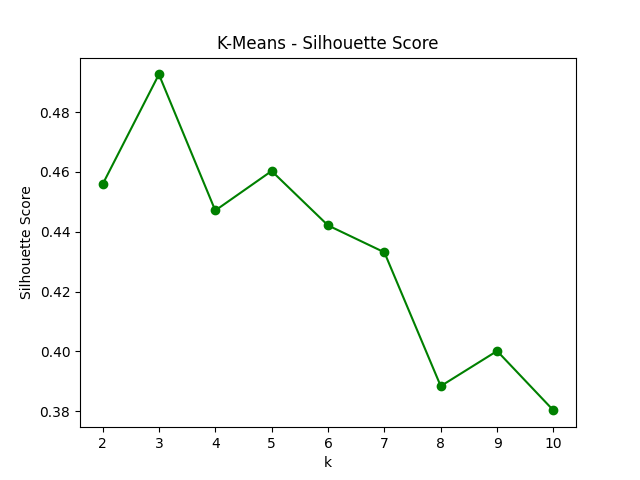
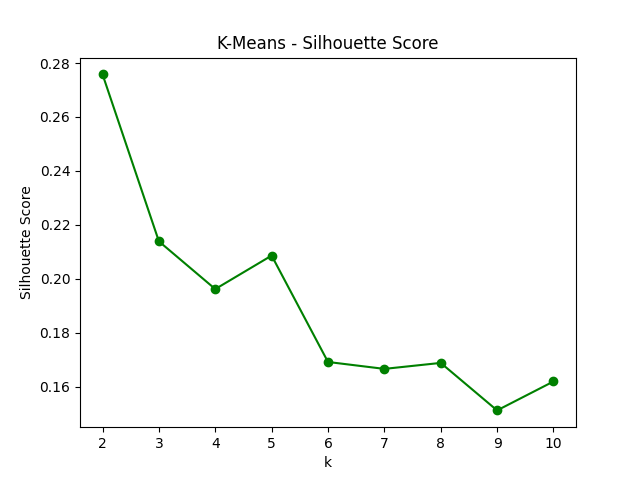
final changes to preprocessing, unsupervised analysis, svm, modelcomparison, utils

diff --git a/unsupervised_structural_analysis.py b/unsupervised_structural_analysis.py
@@ -5,18 +5,27 @@ import pandas as pd
 from sklearn.decomposition import PCA
 from sklearn.cluster import KMeans
 from sklearn.mixture import GaussianMixture
-from sklearn.metrics import silhouette_score
+from sklearn.metrics import silhouette_score, adjusted_rand_score
 
 from preprocessing import RANDOM_STATE, run as run_preprocessing
 
 def preprocess_special():
     # Import preprocessed data from the shared preprocessing pipeline.
     X_train, y_train, X_val, X_test, y_val, y_test, preprocessor = run_preprocessing()
+
+    # Fit the scaler/encoder on train only, then apply to all splits (no leakage).
+    X_train = preprocessor.fit_transform(X_train)
+    X_test = preprocessor.transform(X_test)
+
     return X_train, X_test, y_train, y_test
 
 def run():
 
     X_train, X_test, y_train, y_test = preprocess_special()
+
+    if hasattr(X_train, "toarray"):
+        X_train = X_train.toarray()
+        X_test = X_test.toarray()
 
     # Apply PCA and analyze explained variance:
 
@@ -37,7 +46,6 @@ def run():
     plt.title('PCA - Explained Variance')
     plt.legend()
     plt.savefig('phases/results/USA/pca_explained_variance.png')
-    plt.show()
 
     # refit with the chosen number of components(lab11)
     pca = PCA(n_components=n_components, random_state=RANDOM_STATE).fit(X_train)
@@ -56,7 +64,6 @@ def run():
     plt.title('PCA - First 2 components (train set)')
     plt.legend(title='Class')
     plt.savefig('phases/results/USA/pca_scatter.png')
-    plt.show()
 
     # K-Means: Elbow + Silhouette 
     # Inertia = how tightly are the points in each cluster packed together (sum of squared distances from each point to its cluster center)
@@ -79,7 +86,6 @@ def run():
     plt.ylabel('Inertia')
     plt.title('K-Means - Elbow Method')
     plt.savefig('phases/results/USA/kmeans_elbow.png')
-    plt.show()
 
     # Silhouette plot
     # how well each point fits in its assigned cluster compared to the nearest neighboring cluster
@@ -95,7 +101,6 @@ def run():
     plt.ylabel('Silhouette Score')
     plt.title('K-Means - Silhouette Score')
     plt.savefig('phases/results/USA/kmeans_silhouette.png')
-    plt.show()
 
     best_k_km = list(k_range)[silhouettes_km.index(max(silhouettes_km))]
     print(f"Best k for K-Means (silhouette): {best_k_km}")
@@ -117,8 +122,7 @@ def run():
     plt.xlabel('k')
     plt.ylabel('Negative Log-Likelihood')
     plt.title('GMM - Elbow Method')
-    plt.savefig('gmm_elbow.png')
-    plt.show()
+    plt.savefig('phases/results/USA/gmm_elbow.png')
 
     # Silhouette plot
     plt.figure()
@@ -127,7 +131,6 @@ def run():
     plt.ylabel('Silhouette Score')
     plt.title('GMM - Silhouette Score')
     plt.savefig('phases/results/USA/gmm_silhouette.png')
-    plt.show()
 
     best_k_gmm = list(k_range)[silhouettes_gmm.index(max(silhouettes_gmm))]
     print(f"Best k for GMM (silhouette): {best_k_gmm}")
@@ -177,7 +180,6 @@ def run():
     plt.suptitle('Cluster Assignments vs True Labels')
     plt.tight_layout()
     plt.savefig('phases/results/USA/cluster_vs_target.png')
-    plt.show()
 
     # Summary table
     results = pd.DataFrame({
@@ -186,7 +188,17 @@ def run():
         'Silhouette': [round(max(silhouettes_km), 4), round(max(silhouettes_gmm), 4)],
     })
     print(results)
+    
+    # The Adjusted Rand Index (ARI) measures how well the unsupervised clusters
+    # match the true default labels: 1.0 means a perfect match, 0.0 means the
+    # overlap is no better than random guessing.
+    print("ARI: 1.0=perfect match, 0.0=overlap like random guessing")
+    print("Cluster-vs-default agreement (ARI), K-Means:", adjusted_rand_score(y_train, km_labels))
+    print("Cluster-vs-default agreement (ARI), GMM:", adjusted_rand_score(y_train, gmm_labels))
+
     return results
+
+
 
 
 if __name__ == "__main__":

diff --git a/preprocessing.py b/preprocessing.py
@@ -182,7 +182,6 @@ def test_train_split(X,y):
 
     return X_train, y_train, X_val, X_test, y_val, y_test
 
-
 def cap_outliers(X_train, X_val, X_test, cols):
     """
     IQR-based capping fitted on train, applied to all splits.
@@ -209,45 +208,6 @@ def cap_outliers(X_train, X_val, X_test, cols):
 
     return X_train, X_val, X_test, bounds
 
-
-
-def test_train_split(X,y):
-    """
-    Split data into:
-    - train
-    - validation
-    - test
-    """
-    # First split:
-    # 60% train
-    # 40% temporary
-    X_train, X1_test, y_train, y1_test = train_test_split(
-        X,
-        y,
-        test_size=0.4,
-        stratify=y,
-        random_state=RANDOM_STATE
-    )
-
-    # Second split:
-    # 20% validation
-    # 20% test
-    X_val, X_test, y_val, y_test = train_test_split(
-        X1_test,
-        y1_test,
-        test_size=0.5,
-        stratify=y1_test,
-        random_state=RANDOM_STATE
-    )
-
-    # Print dataset sizes
-    print("\nDataset Sizes")
-    print("Train:", X_train.shape)
-    print("Validation:", X_val.shape)
-    print("Test:", X_test.shape)
-
-    return X_train, y_train, X_val, X_test, y_val, y_test
-
 def run():
     """
     Complete preprocessing pipeline.
@@ -256,15 +216,13 @@ def run():
     X, y, numeric_cols = load_prepare_data()
     
     # Split dataset
-    X_train, y_train,  X_val, X_test, y_val, y_test =test_train_split(X,y)
+    X_train, y_train,  X_val, X_test, y_val, y_test = test_train_split(X,y)
     X_train, X_val, X_test, _ = cap_outliers(X_train, X_val, X_test, numeric_cols)
-
 
     # Create preprocessor
     preprocessor = create_preprocessor(numeric_cols)
 
     return X_train, y_train, X_val, X_test, y_val, y_test, preprocessor
-
 
 if __name__ == "__main__":
     run()

diff --git a/utils.py b/utils.py
@@ -1,13 +1,13 @@
 import json
 import os
 
-from sklearn.metrics import accuracy_score, f1_score, roc_auc_score, average_precision_score
+from sklearn.metrics import accuracy_score, f1_score, roc_auc_score, average_precision_score, precision_score, recall_score
+
 
 def save_results(model_name, y_test, y_test_pred, y_test_score,
                  best_params=None, variants=None):
-    
     """
-    Save classification metrics to results/<model_name>.json
+    Save classification metrics to results/model_name.json
 
     Parameters
     model_name : Used as filename
@@ -27,6 +27,8 @@ def save_results(model_name, y_test, y_test_pred, y_test_score,
         "f1": f1_score(y_test, y_test_pred),
         "roc_auc": roc_auc_score(y_test, y_test_score),
         "aupr": average_precision_score(y_test, y_test_score),
+        "precision": precision_score(y_test, y_test_pred),
+        "recall": recall_score(y_test, y_test_pred),
     }
 
     # Save best hyperparameters if given

diff --git a/phases/svm.py b/phases/svm.py
@@ -16,12 +16,7 @@ from utils import save_results
 
 
 def train_model(X_train, y_train, preprocessor):
-    """
-    Train SVM models with different kernels using:
-    - preprocessing pipeline
-    - subsampled grid search (5000 points)
-    - refit best model on full training set
-    """
+    # Train SVM models with different kernels using: preprocessing pipeline, subsampled grid search (5000 points), refit best model on full training set
 
     # Subsample for grid search: full samples + multiple kernels + CV folds is too slow
     rng = np.random.default_rng(RANDOM_STATE)

diff --git a/phases/modelcomparison.py b/phases/modelcomparison.py
@@ -36,9 +36,11 @@ def run():
         rows.append({
             "model": name,
             "accuracy": data["accuracy"],
+            "precision": data["precision"],
+            "recall": data["recall"],
             "f1": data["f1"],
             "roc_auc": data["roc_auc"],
-            "aupr": data["aupr"],
+            "aupr": data["aupr"]
         })
 
     # put everything in a table and sort by roc_auc (best model on top)
